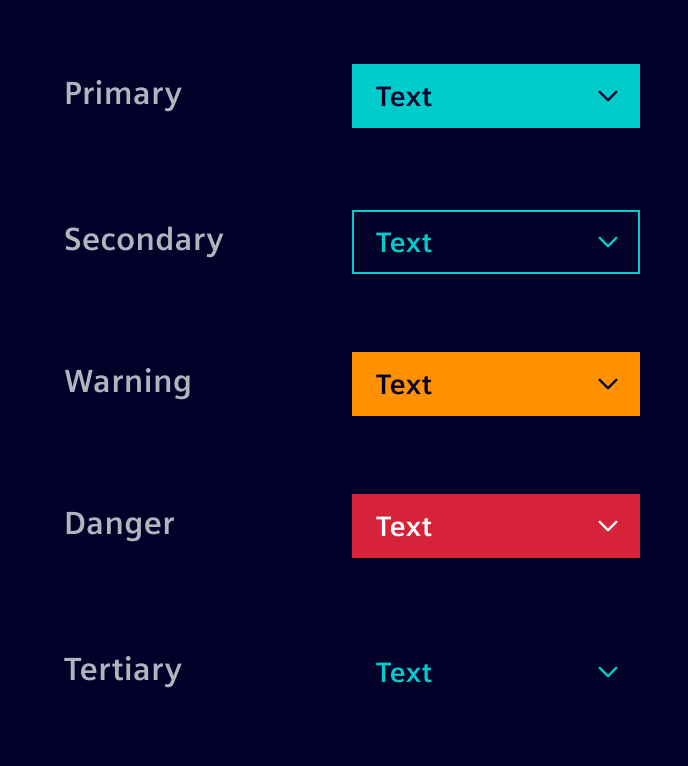
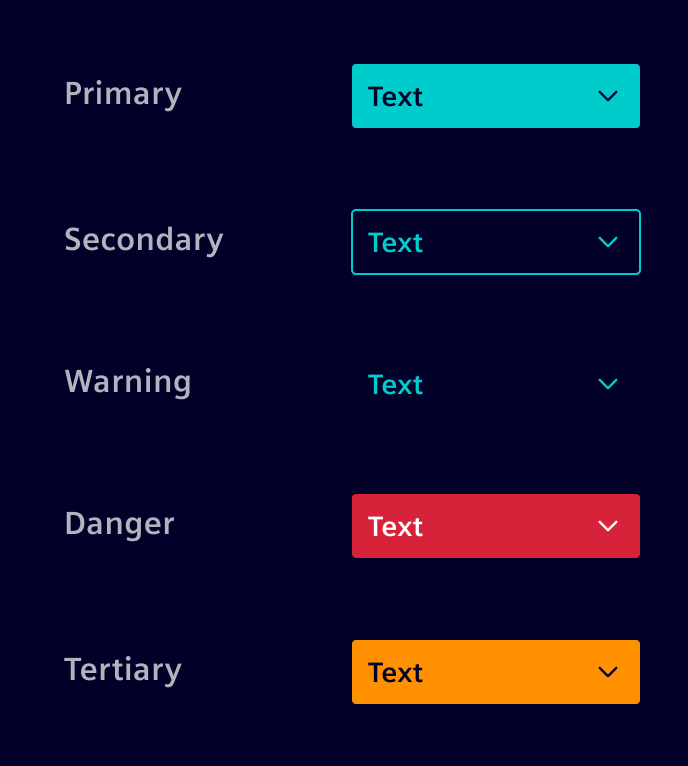
docs(dropdowns): update ux docs

diff --git a/docs/components/buttons-menus/dropdowns.md b/docs/components/buttons-menus/dropdowns.md
@@ -1,69 +1,39 @@
 # Dropdowns
 
-<!-- markdownlint-disable MD029 -->
-
-Dropdowns are toggleable, contextual overlays for displaying actions related to the content.
-They consist of a dropdown toggle and an overlay containing the actions.
-The overlay is shown after clicking the dropdown toggle.
-Dropdown toggles are available with text only or with text and icon.
+**Dropdowns** are toggleable, contextual overlays for displaying actions related to the content.
 
 ## Usage ---
+
+They consist of a dropdown toggle and an overlay containing the actions.
+The overlay is shown after clicking the dropdown toggle.
+Dropdown are available with text only or with text and icon.
 
 ![Dropdown](images/dropdown.png)
 
 ### When to use
 
 - When there is a need for actions, which are related to each other
-  (e.g. Export: PDF, Excel, Word, ...)
-- When users need to make a choice among a list of mutually exclusive options
+  (e.g. Export: PDF, Excel, Word, ...).
+- When users need to make a choice among a list of mutually exclusive options.
 
-### When a Dropdown might not help
+### Best practices
 
-- When there are no other buttons with different actions
-- When there are more than 10 actions to choose from
-- When there are less than 2 actions to choose from (use [Button](buttons.md) instead)
-
-### Best Practices for Dropdown
-
-- Understand the context first in order to determine if a dropdown is indeed the
-  best possible solution
-- Place the default action on top of the menu (avoid extra searching)
-
-### Dos and don'ts
-
-- Do make a visual distinction between items that are disabled and the ones available
-- Do keep disabled items visible
-- Do support keyboard input to navigate within a dropdown
-- Don't use a dropdown in a button without text
+- Minimal button width is `100px`.
+- Menu container should be at least the same width as the button.
 
 ## Design ---
 
-### Interaction States
-
-Most Interaction states are identical to the [normal buttons](buttons.md).
-The exceptions are documented here.
-
-#### Active State
-
-Active state is used, while the user is selecting the underlying action.
+### Elements
 
 ![Dropdown - active](images/dropdown-active.png)
 
-> (1) Placeholder text, (2) Arrow, (3) Container, (4) [Menu container](menu.md), (5) Icon (optional)
+> 1. Placeholder text, 2. Arrow, 3. Container, 4. [Menu container](menu.md), 5. Icon (optional)
 
-!!! info "Arrow Direction"
-    Arrow changes direction when in active state.
-
-### Dropdown with different Button Types
-
-Dropdown is available for in each [rectangular Buttons style](buttons.md).
+### Variants
 
 ![Dropdown alternatives - text](images/dropdown-text.png)
 
-### Button Size
-
-- Minimal button width is `100px`
-- Menu container should be at least the same width as the button
+Interaction states are identical to the [normal buttons](buttons.md).
 
 ## Code ---
 
